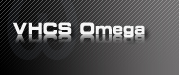
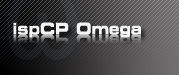
fixed : #214

Changed region(s): [[0.0559, 0.2933, 0.838, 0.56]]

diff --git a/gui/domain_default_page/index.html b/gui/domain_default_page/index.html
@@ -62,7 +62,7 @@
 		background-color:	#000000;
 		color:				#ffffff;
 		width:				100%;
-		height:				65px;
+		height:				75px;
 		white-space: 		nowrap;
 		overflow:			hidden;
 		z-index:			2;
@@ -93,7 +93,7 @@
   </style>
  </head>
  <body>
-  <div id="header"><img src="./images/top_left.jpg" style="width:195px; height:65px;" alt="ispCP Omega" /><img src="./images/top_left_bg.jpg" style="text-align:left; height:65px; background-repeat:no-repeat;" alt="" /><img src="./images/top_right.jpg" style="width:64px; height:65px; position: absolute; right:0px;" alt="OMEGA" /></div>
+  <div id="header"><img src="./images/top_left.jpg" style="width:179px; height:75px;" alt="ispCP Omega" /><img src="./images/top_left_bg.jpg" style="text-align:left; height:75px; background-repeat:no-repeat;" alt="" /><img src="./images/top_right.jpg" style="width:73px; height:75px; position: absolute; right:0px;" alt="OMEGA" /></div>
   <div id="center">
    <div id="content">
     <p>This is the default page for <b>{DOMAIN_NAME}</b>. This page was generated automatically via ispCP Omega. Please upload your own index.html file.</p>
